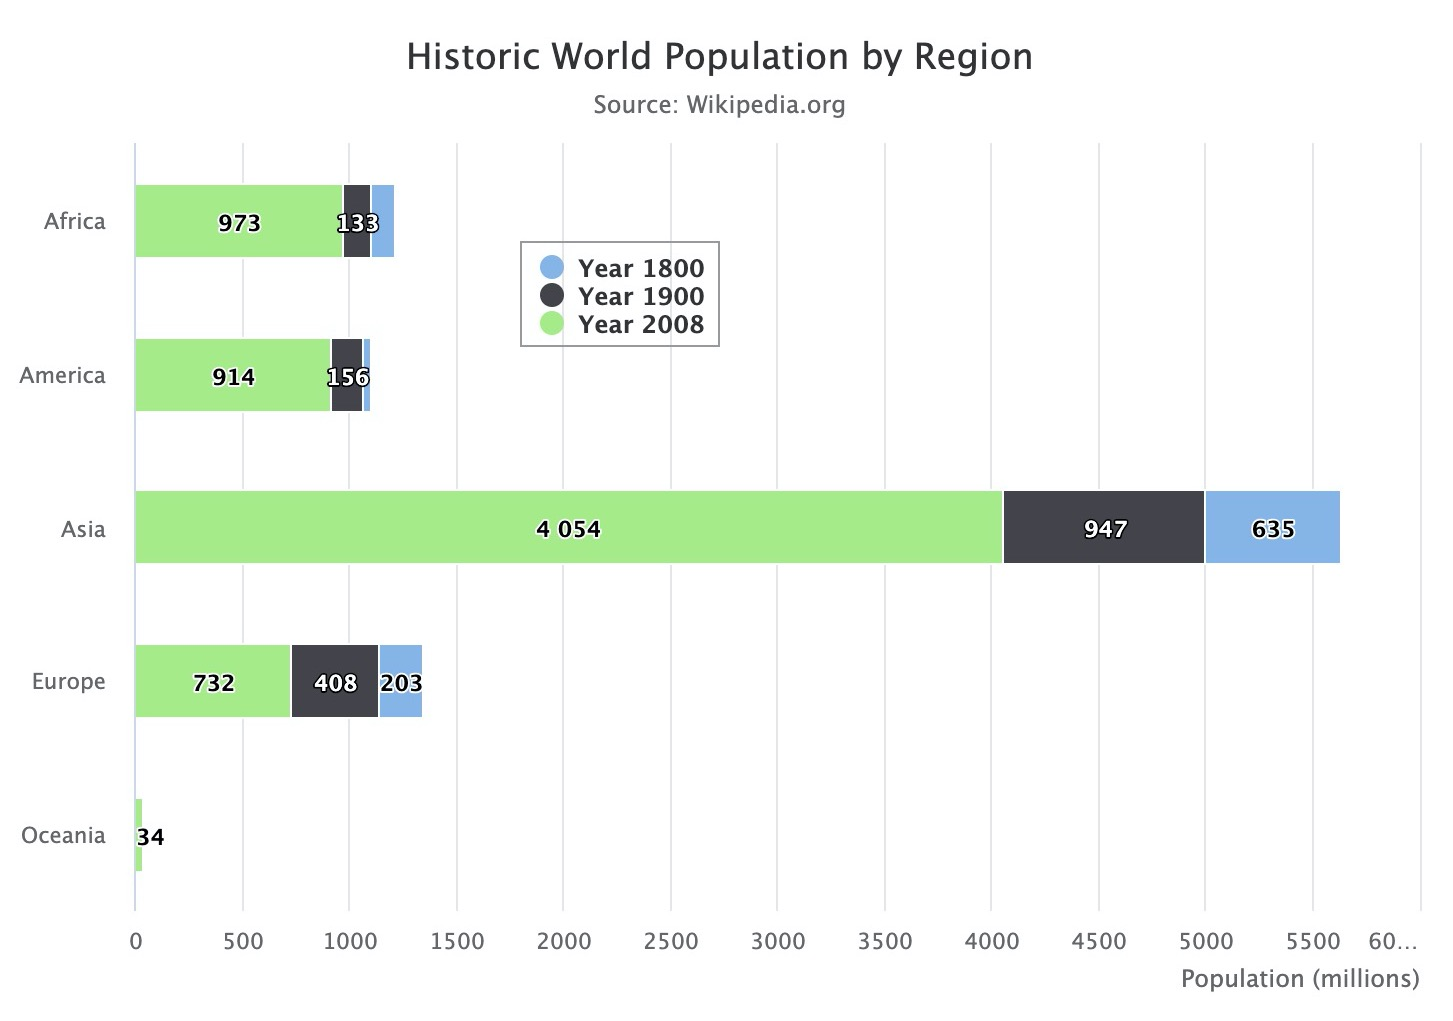
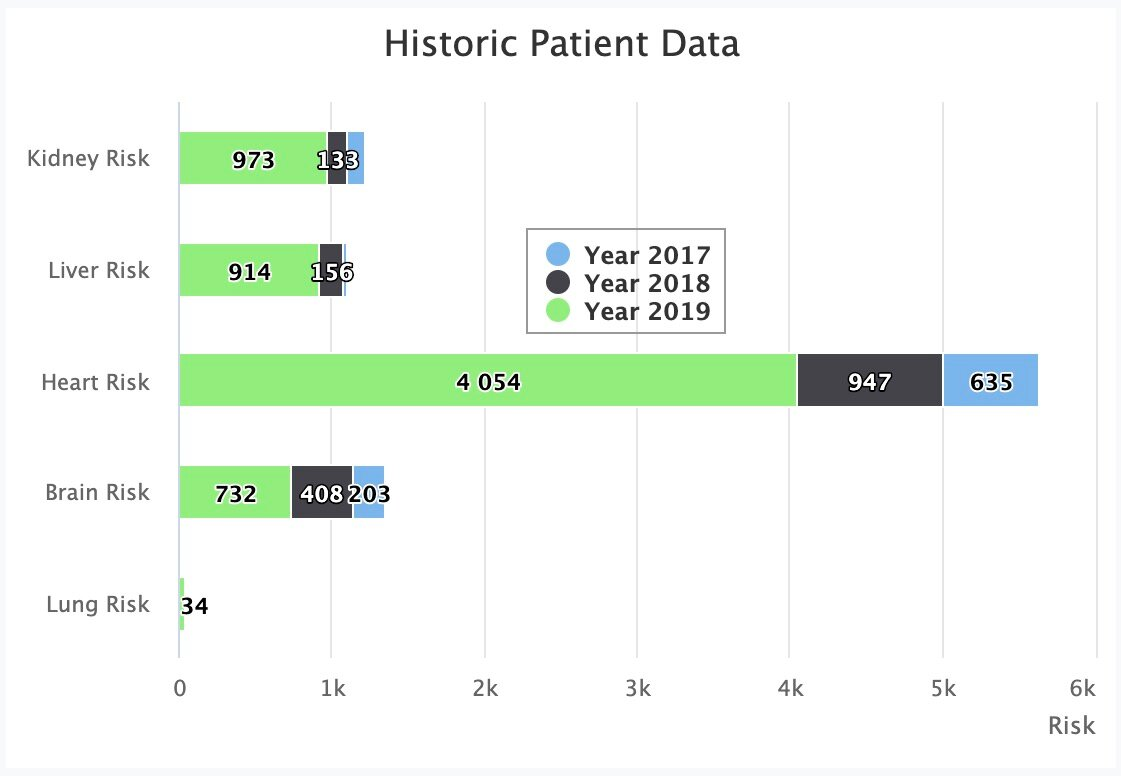
changes

diff --git a/web-application/angular/src/app/patient-healthcareview/patient-healthcareview.component.ts b/web-application/angular/src/app/patient-healthcareview/patient-healthcareview.component.ts
@@ -186,6 +186,11 @@ export class PatientHealthcareviewComponent implements OnInit {
           stacking: 'normal',
           pointWidth: 30,
           pointPadding: 0.2,
+          events:{
+             click: function (event) {
+                  document.getElementById("dataToPlace").innerHTML = " ("+this.data[event.point.index].category+")";
+            }
+          }
         },
      ]
   };
@@ -196,10 +201,7 @@ export class PatientHealthcareviewComponent implements OnInit {
         type: 'bar'
       },
       title: {
-         text: 'Historic World Population by Region'
-      },
-      subtitle : {
-         text: 'Source: Wikipedia.org'
+         text: 'Historic Patient Data'
       },
       legend : {
          layout: 'vertical',
@@ -212,13 +214,13 @@ export class PatientHealthcareviewComponent implements OnInit {
 
          },
          xAxis:{
-            categories: ['Africa', 'America', 'Asia', 'Europe', 'Oceania'], title: {
+            categories: ['Kidney Risk', 'Liver Risk', 'Heart Risk', 'Brain Risk', 'Lung Risk'], title: {
             text: null
          }
       },
       yAxis : {
          min: 0, title: {
-            text: 'Population (millions)', align: 'high'
+            text: 'Risk', align: 'high'
          },
          labels: {
             overflow: 'justify'
@@ -242,15 +244,15 @@ export class PatientHealthcareviewComponent implements OnInit {
       },
       series: [
          {
-            name: 'Year 1800',
+            name: 'Year 2017',
             data: [107, 31, 635, 203, 2]
          },
          {
-            name: 'Year 1900',
+            name: 'Year 2018',
             data: [133, 156, 947, 408, 6]
          },
          {
-            name: 'Year 2008',
+            name: 'Year 2019',
             data: [973, 914, 4054, 732, 34]
          }
       ]
@@ -262,7 +264,7 @@ export class PatientHealthcareviewComponent implements OnInit {
          plotShadow: false
       },
       title : {
-         text: 'Browser market shares at a specific website, 2014'
+         text: 'Hospitals visited'
       },
       tooltip : {
          pointFormat: '{series.name}: <b>{point.percentage:.1f}%</b>'
@@ -277,19 +279,13 @@ export class PatientHealthcareviewComponent implements OnInit {
       },
       series : [{
          type: 'pie',
-         name: 'Browser share',
+         name: 'Hospitals share',
          data: [
-            ['Firefox',   45.0],
-            ['IE',       26.8],
-            {
-               name: 'Chrome',
-               y: 12.8,
-               sliced: true,
-               selected: true
-            },
-            ['Safari',    8.5],
-            ['Opera',     6.2],
-            ['Others',      0.7]
+            ['Stony Brook',   45.0],
+            ['Mayo Clinic',    26.8],
+            ['Cleveland Clinic',    8.5],
+            ['Johns Hopkins Hospital',     6.2],
+            ['MA General Hospital',      0.7]
          ]
       }]
    };

diff --git a/web-application/angular/src/app/patient-healthcareview/patient-healthcareview.component.html b/web-application/angular/src/app/patient-healthcareview/patient-healthcareview.component.html
@@ -48,14 +48,18 @@
          
       </div>
       <div class="tile__media" style="padding-left: 10px;padding-top: 14px;box-shadow: 4px 5px 6px -6px grey;">
-         <img src="../../assets/images/img0.jpg" class="tile__img1">
+         <highcharts-chart
+            [Highcharts] = "highcharts2" 
+            [options] = "chartOptions2" 
+            style = "display: block; ">
+         </highcharts-chart>
       </div>
      </div>
    </div>
    <div class="row">
       <div class="col-md-12 info" style="padding:20px;background-color: white;box-shadow: 4px 5px 6px -6px grey;">
          <h2 style="text-align:center;">COPD Analysis</h2><br>
-         <h4>Patient's Information</h4><br>
+         <h4>Patient's Information<span id="dataToPlace"></span></h4><br>
          <ul>
             <li>Lab Results&emsp;LDL/Cholestrol: <span style="color:red">185</span>mg/mL
                &emsp;|&emsp;LDR(Real)-C: <span style="color:red">166</span>mg/mL
